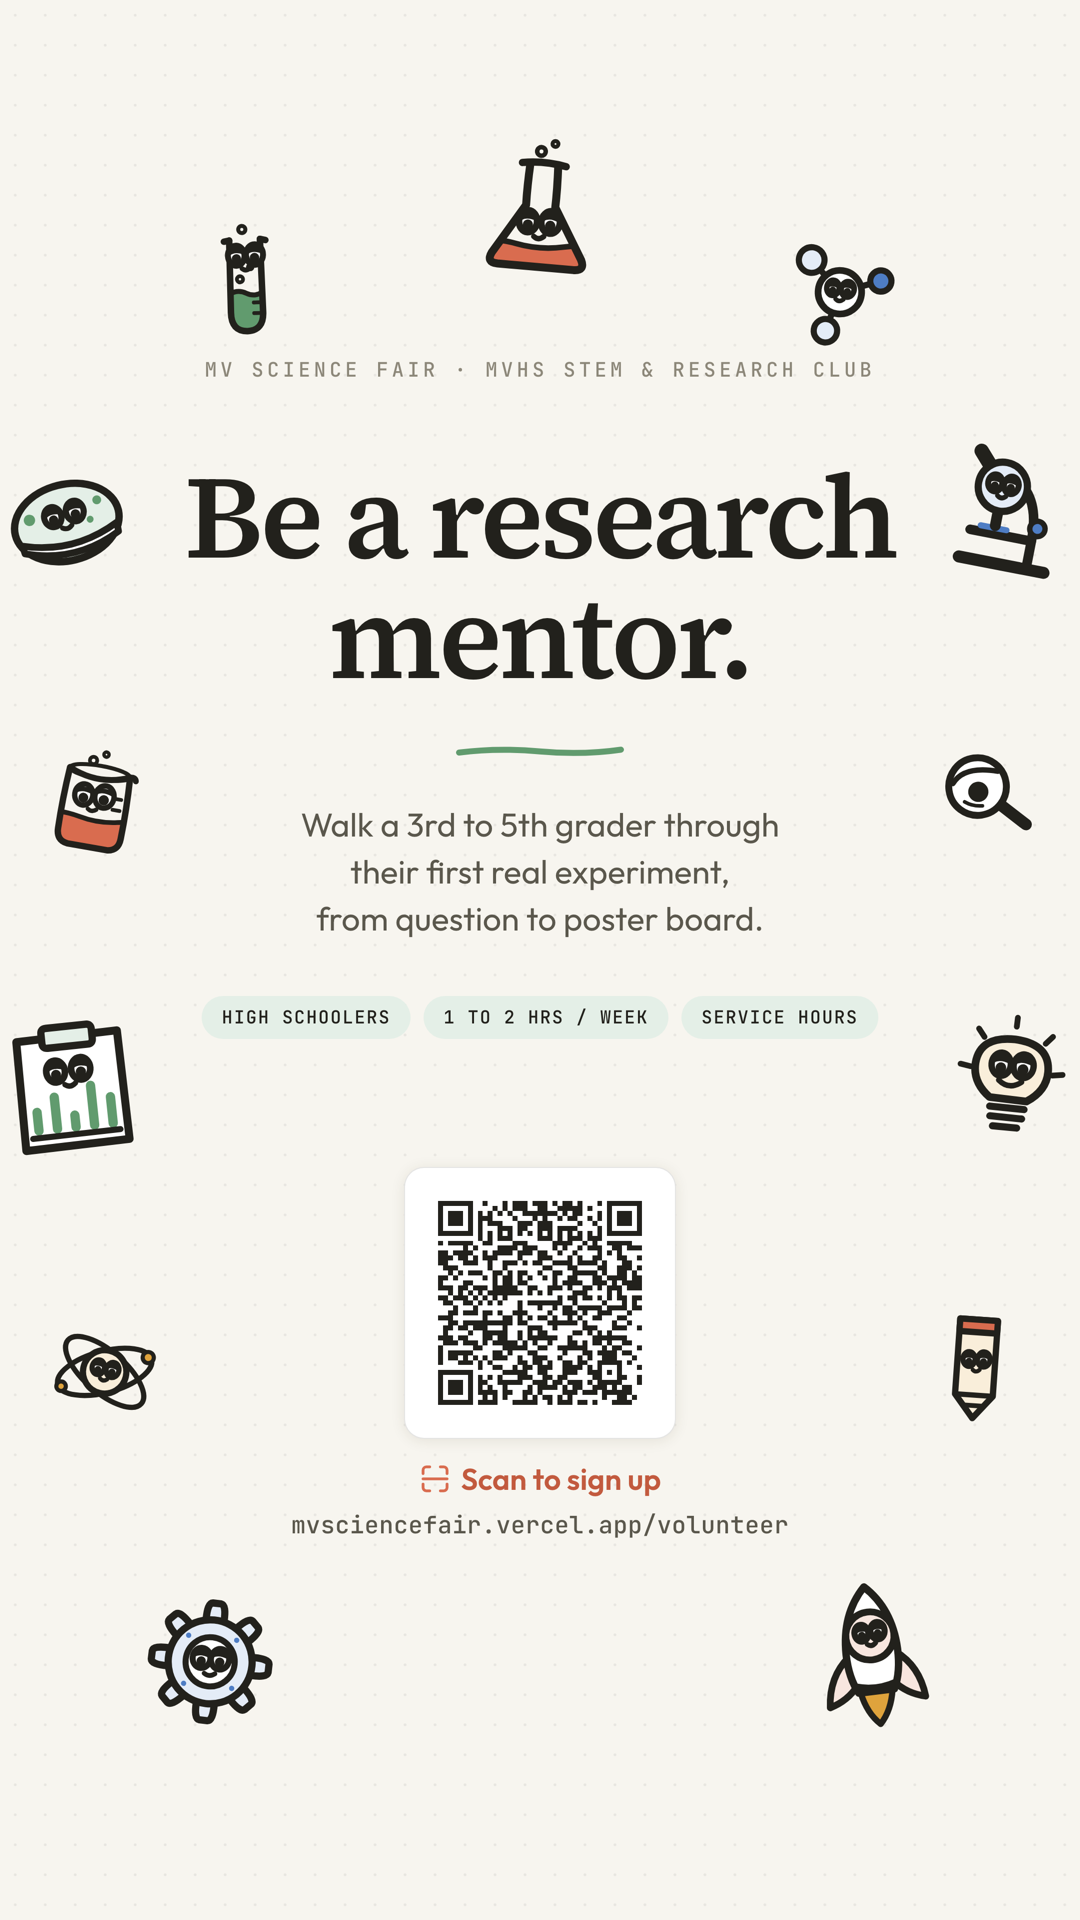
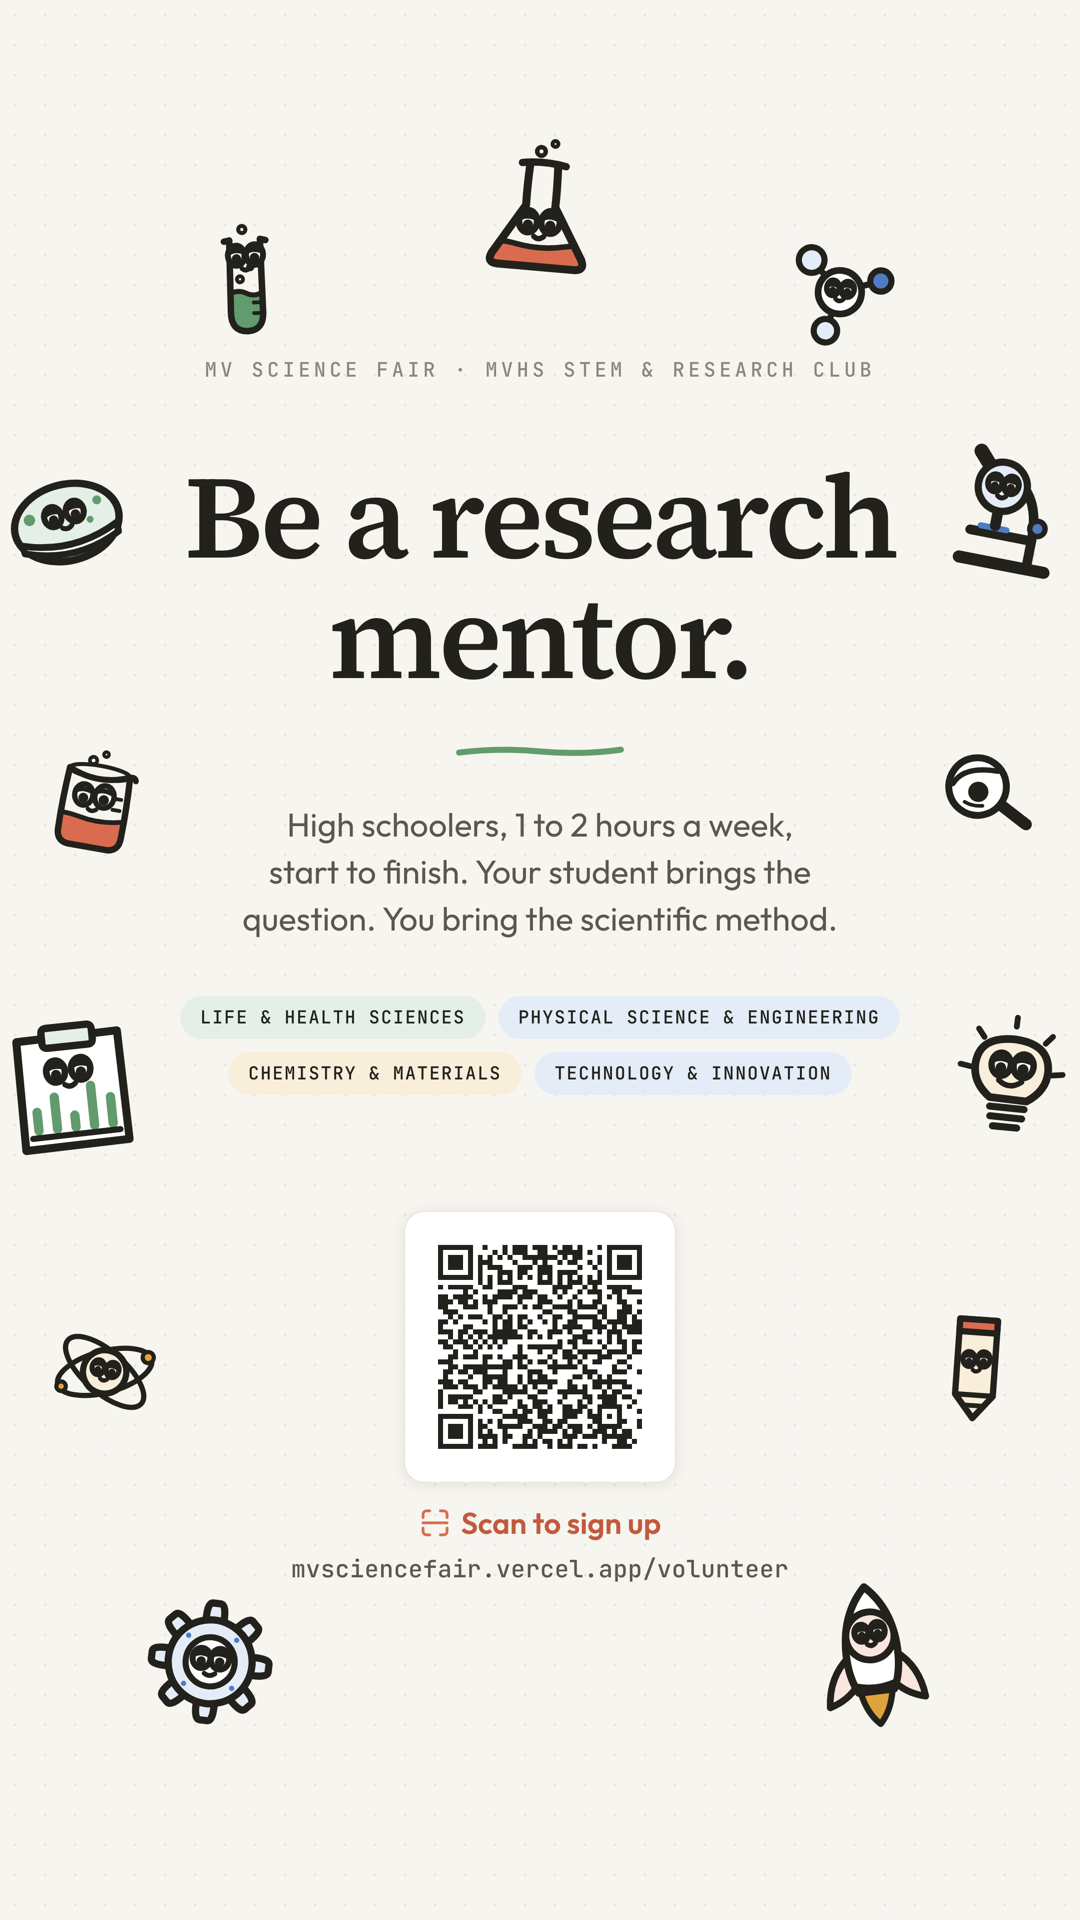
fix: a mentor does not pick the student's question
Owner correction. Both the mentor post and its caption had the mentor helping
the kid "pick a question", which inverts the one rule the mentor role turns on:
/the-process says mentors "guide you through the scientific method, help you
stay organized, and offer encouragement", and /volunteer's conduct list opens
with "the project must remain the student's own work". The post now says "Your
student brings the question. You bring the scientific method."

Same correction covers the second half of the note, that mentoring runs through
the whole project rather than a moment in it: "1 to 2 hours a week, start to
finish".

The mentor post gains the fair's four categories as chips, in the pigments
src/lib/projectIdeas.ts already assigns them, so someone deciding whether to
mentor can see what they would be mentoring. Coral stays out of it: DESIGN.md
reserves it for calls to action.

Event day gains the shifts either side of the fair, also per the owner: "Set up
the night before, run check-in and guide families on fair day, then help pack
down after."

That last one outruns the form, and the caption doc now says so: the Event-Day
Volunteering Form asks only about Saturday 9 AM to 12 PM, so a volunteer who
wants the Friday setup shift has nowhere to say it. Flagged rather than
silently fixed, because which evening and what time are not mine to invent.

Changed region(s): [[0.2139, 0.4062, 0.7944, 0.5625], [0.275, 0.625, 0.7028, 0.8438]]

diff --git a/fliers/instagram-captions.md b/fliers/instagram-captions.md
@@ -25,11 +25,19 @@ deadline that event-day volunteering does not.
 > You do not need a PhD. You need to be a high schooler who likes science.
 >
 > We are pairing MVHS students with 3rd to 5th graders for the MV Science Fair
-> on September 26. You help one kid pick a question, run a real experiment, and
-> build a board they are proud of. One to two hours a week.
+> on September 26. Your student brings the question. You bring the scientific
+> method, and you stay with them the whole way: planning it, running it, keeping
+> them organized, and getting them to the board they present on fair day. About
+> 1 to 2 hours a week.
 >
-> They get someone who has actually been through it. You get community service
-> hours and a kid who thinks you invented science.
+> Projects land in one of four categories, and you take whichever you like: Life
+> and Health Sciences, Physical Science and Engineering, Chemistry and
+> Materials, Technology and Innovation.
+>
+> The project stays theirs. You advise. That is the whole job, and it is the
+> part that makes a kid believe they can do science.
+>
+> Community service hours for all of it.
 >
 > Scan the QR on the post, or go to mvsciencefair.vercel.app/volunteer
 >
@@ -39,7 +47,13 @@ deadline that event-day volunteering does not.
 
 **Location tag:** Mountain View, California
 **Alt text:** Cream poster reading "Be a research mentor", ringed by hand drawn
-science doodles with eyes, with a QR code to the mentor sign up form.
+science doodles with eyes, with the fair's four project categories and a QR
+code to the mentor sign up form.
+
+**Do not say** that mentors help pick the question. They do not. The student
+owns the question and the project; the mentor guides the scientific method,
+helps them stay organized, and encourages them. That is what /the-process and
+/volunteer both promise, and the mentor conduct rules turn on it.
 
 ---
 
@@ -47,14 +61,15 @@ science doodles with eyes, with a QR code to the mentor sign up form.
 
 **Caption**
 
-> Volunteer hours. One Saturday. Done before lunch.
+> Volunteer hours. One weekend. Mostly before noon.
 >
 > The MV Science Fair is Saturday, September 26, 9 AM to 12 PM at Amy Imai
-> Elementary. We need MVHS students to set up, check families in, point people
-> at the right table, and pack down at the end.
+> Elementary. There are three ways in: help set up the night before, work
+> check-in and guide families during the fair, or stay after and help pack down.
+> Take one, take all three.
 >
-> Three hours, community service hours for all of it, and a morning of watching
-> 4th graders explain their projects with total confidence.
+> Community service hours for whatever you do, plus a morning of watching 4th
+> graders explain their projects with total confidence.
 >
 > Scan the QR on the post, or go to mvsciencefair.vercel.app/volunteer
 >
@@ -64,7 +79,16 @@ science doodles with eyes, with a QR code to the mentor sign up form.
 
 **Location tag:** Mountain View, California
 **Alt text:** Cream poster reading "Get volunteer hours", ringed by hand drawn
-science doodles with eyes, with a QR code to the event day volunteer form.
+science doodles with eyes, with the fair's date, time and venue and a QR code
+to the event day volunteer form.
+
+**Open question, flagged 2026-09-01.** The post and this caption advertise
+night-before setup and after-the-fair cleanup. The Event-Day Volunteering Form
+does not ask about either: Q7 asks only "Are you available for fair day,
+Saturday, September 26, 2026, 9:00 AM to 12:00 PM?" and Q8's options are the
+only place a volunteer could say otherwise. Someone who wants the Friday shift
+has nowhere to say so. Either add the option to the form or drop the claim from
+the post.
 
 ---
 
